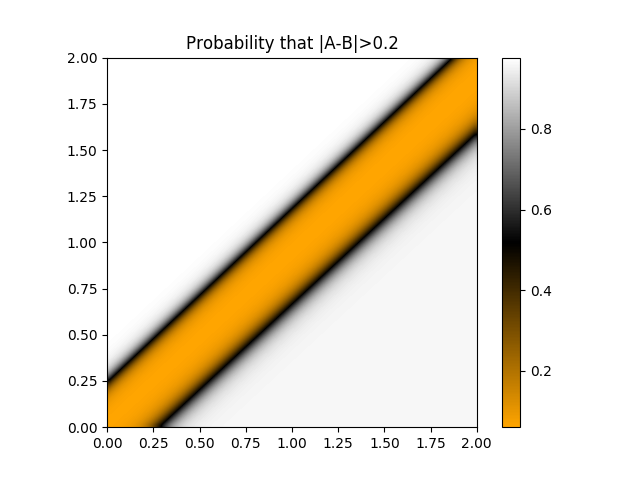
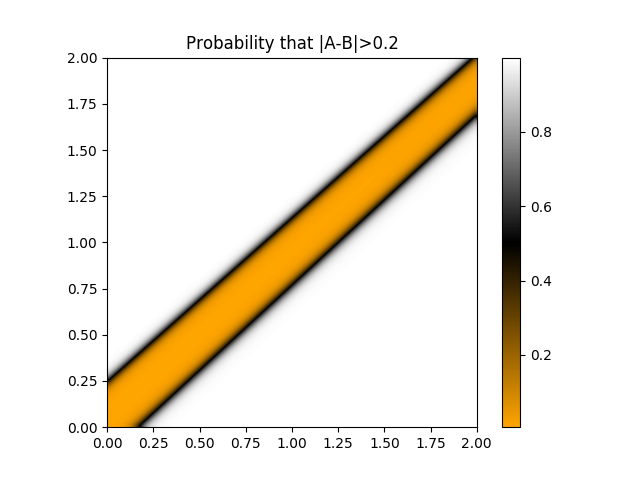
Correct mistake in backpropagation algorithm

diff --git a/nnn/examples/a_aprox_b.py b/nnn/examples/a_aprox_b.py
@@ -21,7 +21,7 @@ from nnn.core.neural_network import NeuralNetwork
 from nnn.core.objectives import CrossEntropy
 from nnn.utils.plots import plot_boundaries_2d, plot_data
 import numpy as np
-np.random.seed(15) # Note that the neural network is highly sensitive to initial conditions.
+np.random.seed(27) # Note that the neural network is highly sensitive to initial conditions.
 
 n_samples_train = 100
 n_samples_test = 25
@@ -36,7 +36,7 @@ nn = NeuralNetwork(input_dim=2, output_dim=1)
 # Try commenting the next line: the neural network won't be able to classify the samples, because data isn't linearly separable. Thus, we need a hidden layer.
 nn.add_dense(output_dim=2, activation=Sigmoid(), initializer=GaussianInitializer(gaussian_mean=0.0, gaussian_std=1))
 nn.add_dense(output_dim=1, activation=Sigmoid(), initializer=GaussianInitializer(gaussian_mean=0.0, gaussian_std=1))
-nn.train(x=x_train, y=y_train, objective=CrossEntropy(), epochs=25, lr=0.3)
+nn.train(x=x_train, y=y_train, objective=CrossEntropy(), epochs=100, lr=0.3)
 
 print('Train data')
 for i in range(n_samples_train):

diff --git a/nnn/core/layers.py b/nnn/core/layers.py
@@ -58,7 +58,9 @@ class Dense(Layer):
         """
         assert len(der_loss_wrt_act) == self.output_dim
         der_h_wrt_w = np.repeat(np.expand_dims(self.input, axis=0), self.output_dim, axis=0)
-        der_loss_wrt_w = np.expand_dims(der_loss_wrt_act * self.der_act_wrt_h, axis=-1) * der_h_wrt_w
-        backward = np.dot(der_loss_wrt_act, self.weights[:, 1:])  # computes the loss to be transmitted to the previous layer (note that bias term is being excluded)
+        aux = der_loss_wrt_act * self.der_act_wrt_h
+        der_loss_wrt_w = np.expand_dims(aux, axis=-1) * der_h_wrt_w
+        backward = np.dot(aux, self.weights[:, 1:])  # computes the loss to be transmitted to the previous layer (note that bias term is being excluded)
         self.weights -= lr * der_loss_wrt_w
         return np.squeeze(backward)
+

diff --git a/nnn/examples/a_greater_than_b.py b/nnn/examples/a_greater_than_b.py
@@ -23,7 +23,7 @@ from nnn.utils.plots import plot_boundaries_2d, plot_data, plot_loss_function_3d
 from nnn.utils.loss_grid import loss_grid_nn
 import numpy as np
 
-np.random.seed(15)
+np.random.seed(27)
 
 n_samples_train = 100
 n_samples_test = 25
@@ -36,7 +36,7 @@ plot_data(x_train=x_train, y_train=y_train, x_test=x_test, y_test=y_test, init=0
 
 nn = NeuralNetwork(input_dim=2, output_dim=1)
 nn.add_dense(output_dim=1, activation=Sigmoid(), initializer=GaussianInitializer(gaussian_mean=0.0, gaussian_std=0.3))
-nn.train(x=x_train, y=y_train, objective=CrossEntropy(), epochs=25, lr=0.3)
+nn.train(x=x_train, y=y_train, objective=CrossEntropy(), epochs=100, lr=0.3)
 
 print('Train data')
 for i in range(n_samples_train):

diff --git a/README.md b/README.md
@@ -13,7 +13,7 @@ The project is structured as follows:
         - `objectives.py`: Functions to be optimized by adjusting network's parameters.
     - `utils/`: Other utilities.
         - `plots.py`: Module with plotting tools. It contains a function to plot the classification boundaries of a 2d classifier, among others.
-        - `loss_grid.py`: Computation of the loss grid for a given neural network and objective function
+        - `loss_grid.py`: Computation of the loss grid for a given neural network and objective function.
     - `examples`: Simple instructive examples. See [nnn/examples/](./nnn/examples).
         - `a_greater_than_b.py`: Example demonstrating that a linearly separable dataset can be classified using a neural network without any hidden layer.
         - `a_aprox_b.py`: Example demonstrating that a non linearly separable dataset requires at least a hidden layer in order to classify samples correctly.
@@ -42,4 +42,3 @@ There are several functionalities that may be implemented to make this software 
 - More objective functions
 - Regularization
 - Parallelization
-- Automatic differentiation

diff --git a/nnn/examples/README.md b/nnn/examples/README.md
@@ -51,4 +51,4 @@ You could fold the transparent sheet in such a way that coordinates (0, 1) and (
 
 ![alt text](a_aprox_b_boundaries.png "Classifier boundaries for A > B")
 
-*<p style="text-align: center;">Figure 5: Classifier boundaries for A aprox B using a neural network with a hidden layer. This is what we get after unfolding out transparent sheet.</p>*
+*<p style="text-align: center;">Figure 5: Classifier boundaries for A aprox B using a neural network with a hidden layer. This is what we get after unfolding the transparent sheet.</p>*
